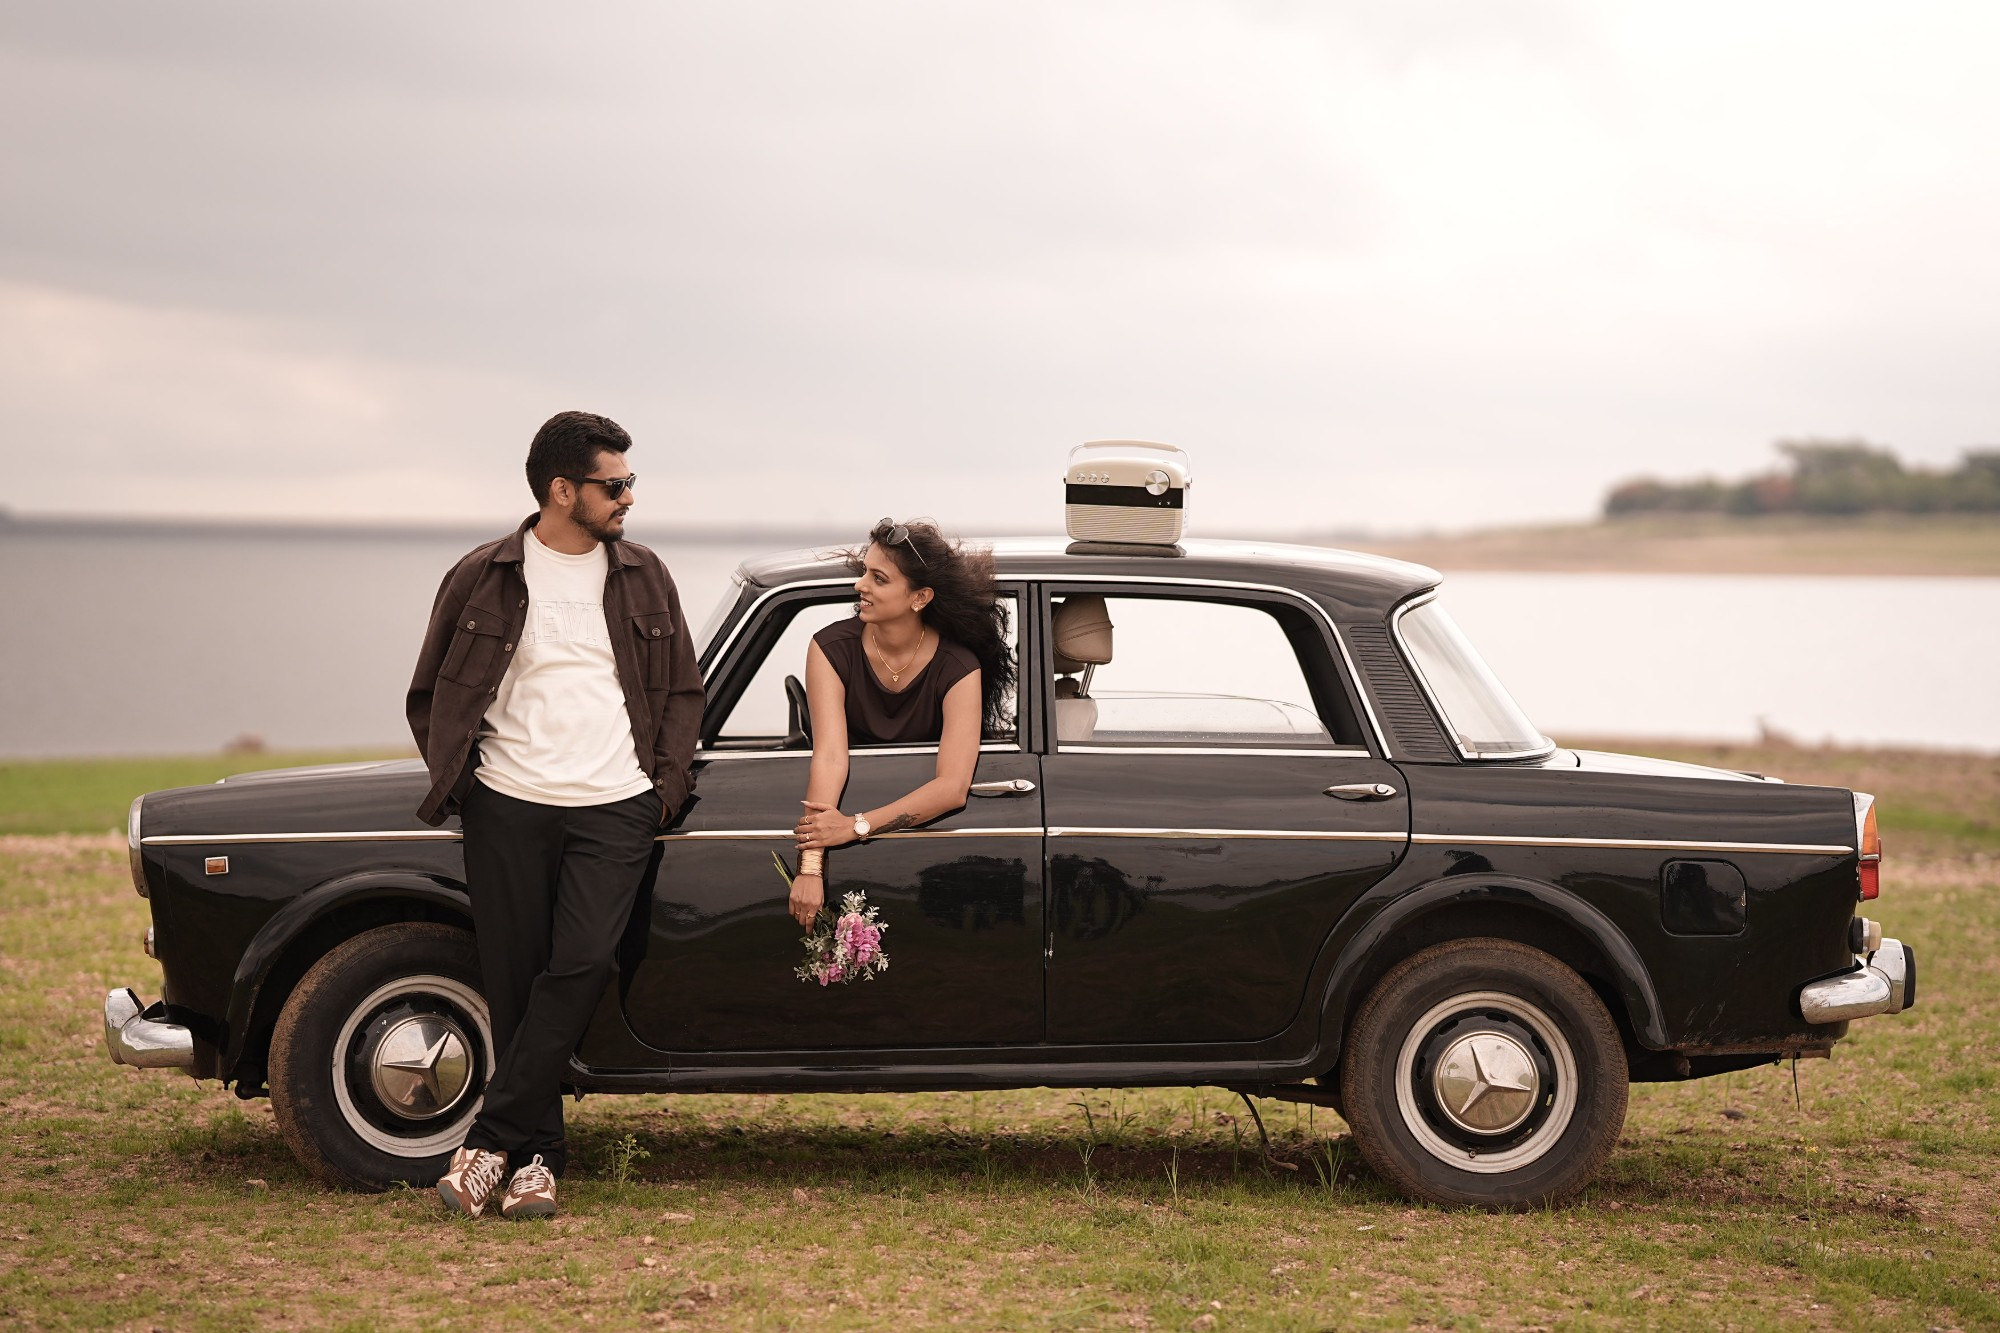
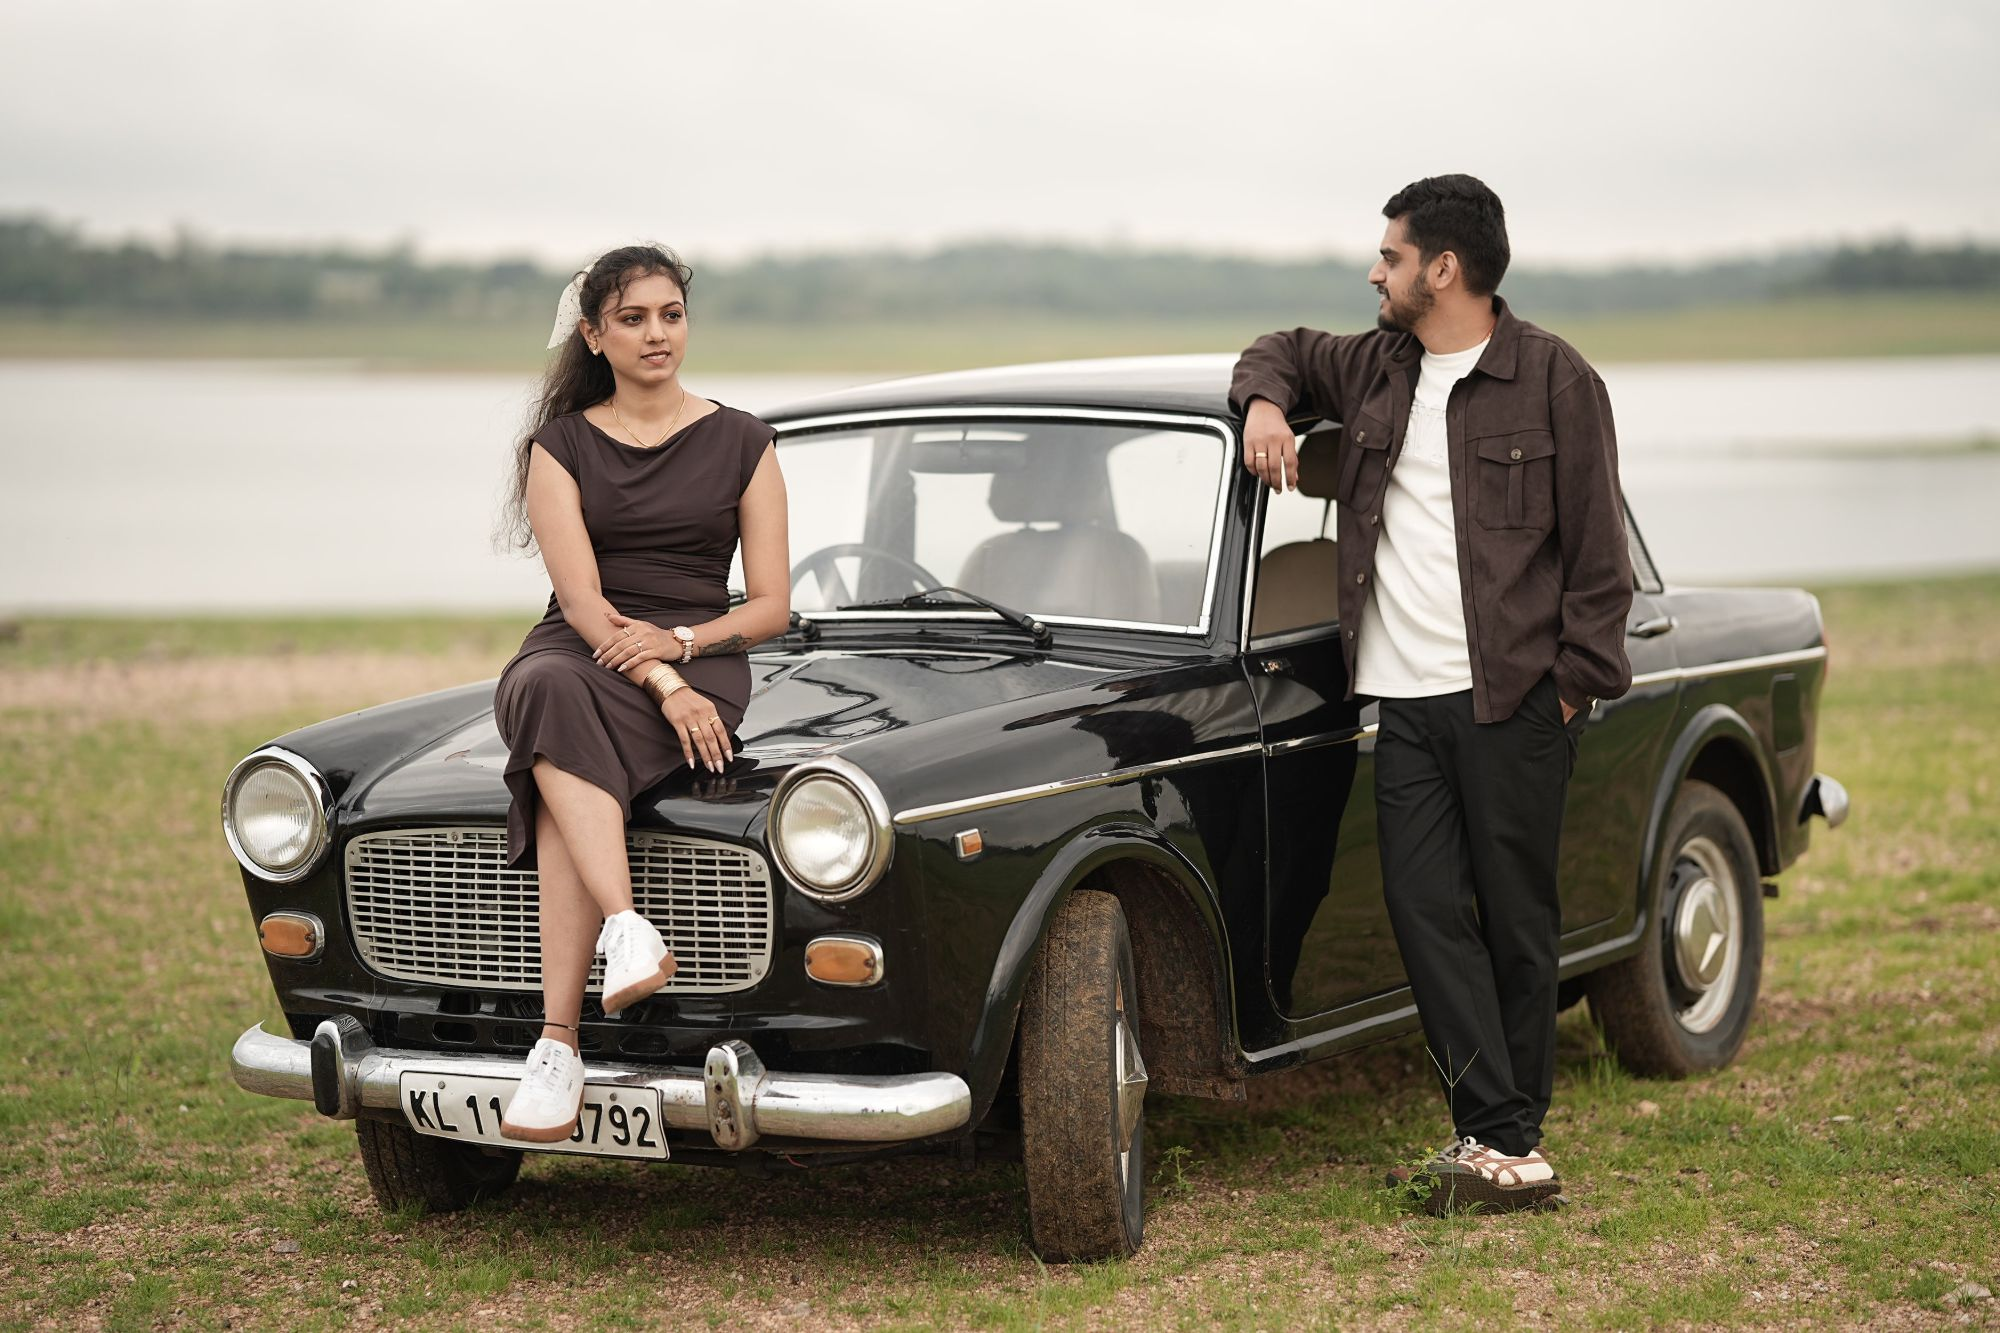
Update Little Infinities photos: temple ruins + vintage car
- moment-rings.jpg: temple ruins oil-painting style (couple at heritage site)
- moment-embrace.jpg: couple posing with vintage black car by the lake
- Updated captions and alt text to match new photos

diff --git a/index.html b/index.html
@@ -1458,12 +1458,12 @@ section{position:relative;z-index:2}
   </div>
   <div class="moments-grid">
     <figure class="moment fade-up">
-      <img src="images/moment-rings.jpg" alt="Sneha and Tejas in a meadow">
-      <figcaption class="moment-cap">A quiet field, a bouquet, and us — where forever began.</figcaption>
+      <img src="images/moment-rings.jpg" alt="Sneha and Tejas at ancient temple ruins">
+      <figcaption class="moment-cap">Among the stones of centuries — pointing toward our forever.</figcaption>
     </figure>
     <figure class="moment fade-up">
       <img src="images/moment-embrace.jpg" alt="Sneha and Tejas with a vintage car by the lake">
-      <figcaption class="moment-cap">Old roads, new beginnings — the journey we're choosing together.</figcaption>
+      <figcaption class="moment-cap">A timeless drive into the rest of our lives.</figcaption>
     </figure>
   </div>
 </section>
